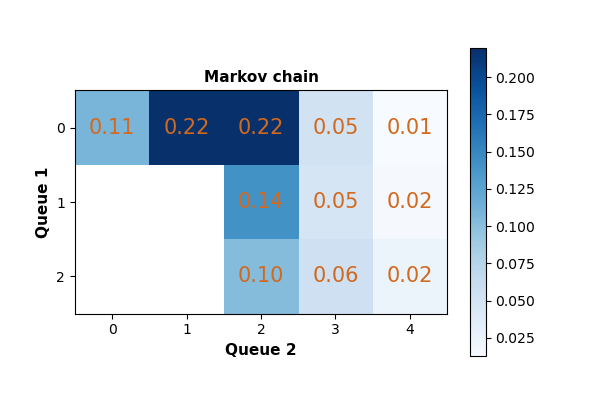
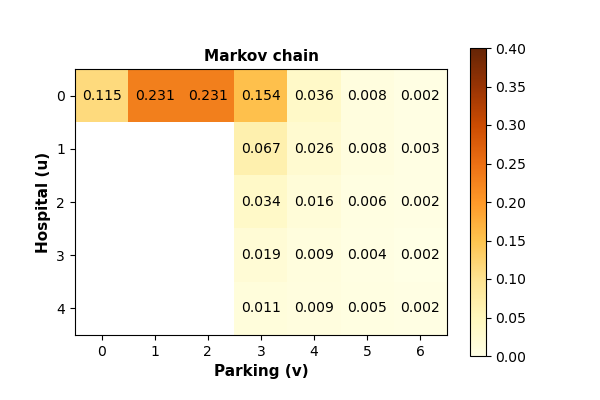
Update state probability script

diff --git a/EURO2022/Bin/state_probs_comparison/main.py b/EURO2022/Bin/state_probs_comparison/main.py
@@ -7,9 +7,9 @@ lambda_1 = 1
 lambda_2 = 1
 mu = 1
 num_of_servers = 3
-threshold = 2
-system_capacity = 4
-buffer_capacity = 2
+threshold = 3
+system_capacity = 6
+buffer_capacity = 4
 
 all_states = abg.markov.build_states(
     threshold=threshold,
@@ -56,51 +56,51 @@ diff_states_probabilities_array = (
 )
 
 plt.figure(figsize=(6, 4))
-plt.imshow(sim_state_probabilities_array, cmap="Blues")
+plt.imshow(sim_state_probabilities_array, cmap="YlOrBr", vmin=0, vmax=0.4)
 for i in range(sim_state_probabilities_array.shape[0]):
     for j in range(sim_state_probabilities_array.shape[1]):
         if not np.isnan(sim_state_probabilities_array[i, j]):
             plt.text(
                 j,
                 i,
-                "{:.2f}".format(sim_state_probabilities_array[i, j]),
+                "{:.3f}".format(sim_state_probabilities_array[i, j]),
                 ha="center",
                 va="center",
-                color="chocolate",
-                fontsize=15,
+                color="black",
+                fontsize=10,
             )
 plt.title("Simulation", fontsize=11, fontweight="bold")
-plt.yticks([0, 1, 2])
-plt.xlabel("Queue 2", fontsize=11, fontweight="bold")
-plt.ylabel("Queue 1", fontsize=11, fontweight="bold")
+plt.yticks([i for i in range(buffer_capacity + 1)])
+plt.xlabel("Parking (v)", fontsize=11, fontweight="bold")
+plt.ylabel("Hospital (u)", fontsize=11, fontweight="bold")
 plt.colorbar()
 plt.savefig("simulation.png", transparent=True)
 
 
 plt.figure(figsize=(6, 4))
-plt.imshow(markov_state_probabilities_array, cmap="Blues")
+plt.imshow(markov_state_probabilities_array, cmap="YlOrBr", vmin=0, vmax=0.4)
 for i in range(markov_state_probabilities_array.shape[0]):
     for j in range(markov_state_probabilities_array.shape[1]):
         if not np.isnan(markov_state_probabilities_array[i, j]):
             plt.text(
                 j,
                 i,
-                "{:.2f}".format(markov_state_probabilities_array[i, j]),
+                "{:.3f}".format(markov_state_probabilities_array[i, j]),
                 ha="center",
                 va="center",
-                color="chocolate",
-                fontsize=15,
+                color="black",
+                fontsize=10,
             )
 plt.title("Markov chain", fontsize=11, fontweight="bold")
-plt.yticks([0, 1, 2])
-plt.xlabel("Queue 2", fontsize=11, fontweight="bold")
-plt.ylabel("Queue 1", fontsize=11, fontweight="bold")
+plt.yticks([i for i in range(buffer_capacity + 1)])
+plt.xlabel("Parking (v)", fontsize=11, fontweight="bold")
+plt.ylabel("Hospital (u)", fontsize=11, fontweight="bold")
 plt.colorbar()
 plt.savefig("markov.png", transparent=True)
 
 
 plt.figure(figsize=(6, 4))
-plt.imshow(diff_states_probabilities_array, cmap="Blues")
+plt.imshow(diff_states_probabilities_array, cmap="YlOrBr", vmin=-0.003, vmax=0.003)
 for i in range(diff_states_probabilities_array.shape[0]):
     for j in range(diff_states_probabilities_array.shape[1]):
         if not np.isnan(diff_states_probabilities_array[i, j]):
@@ -111,11 +111,11 @@ for i in range(diff_states_probabilities_array.shape[0]):
                 ha="center",
                 va="center",
                 color="chocolate",
-                fontsize=14,
+                fontsize=8,
             )
 plt.title("Differences", fontsize=11, fontweight="bold")
-plt.yticks([0, 1, 2])
-plt.xlabel("Queue 2", fontsize=11, fontweight="bold")
-plt.ylabel("Queue 1", fontsize=11, fontweight="bold")
+plt.yticks([i for i in range(buffer_capacity + 1)])
+plt.xlabel("Parking (v)", fontsize=11, fontweight="bold")
+plt.ylabel("Hospital (u)", fontsize=11, fontweight="bold")
 plt.colorbar()
 plt.savefig("diff.png", transparent=True)
